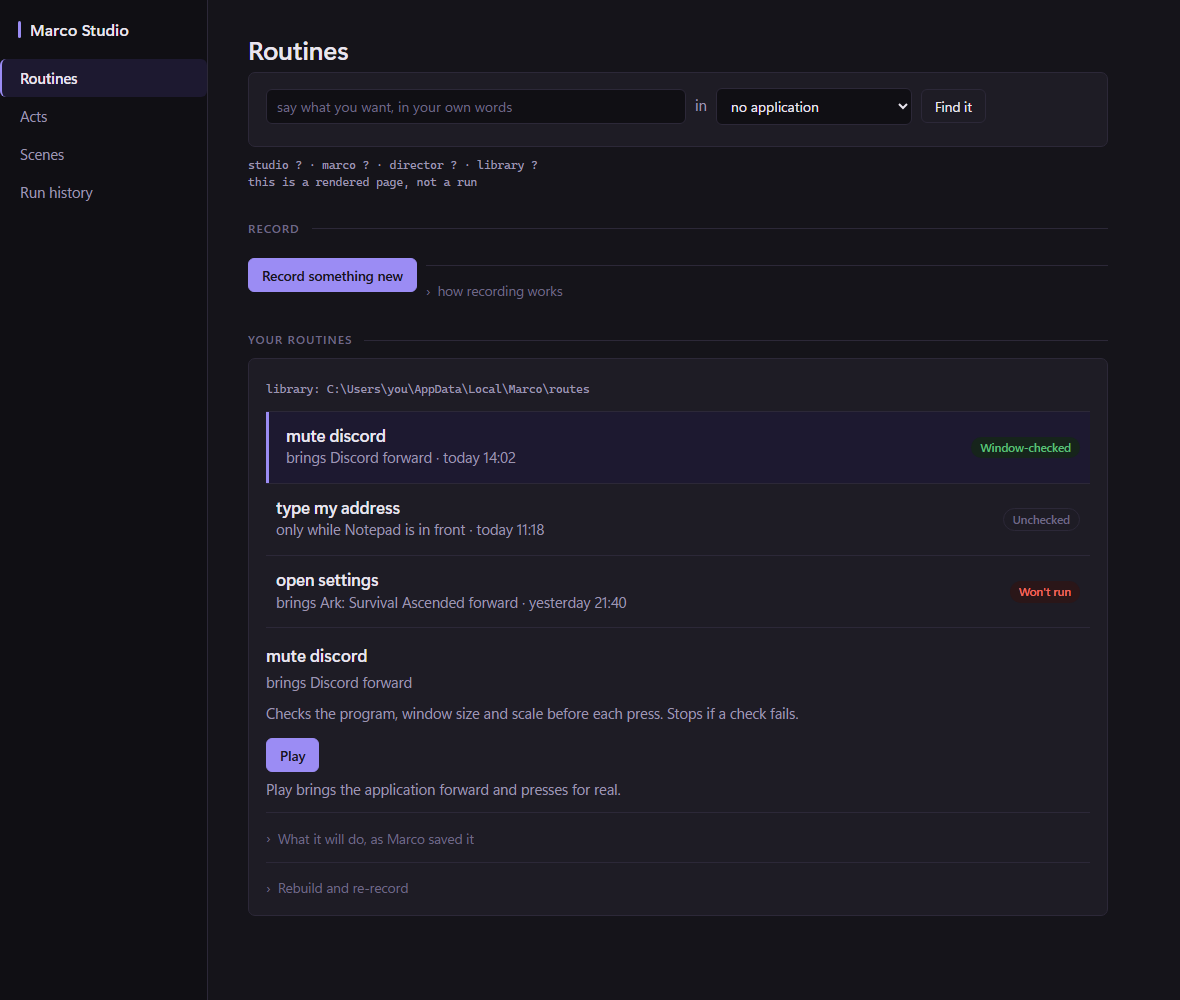
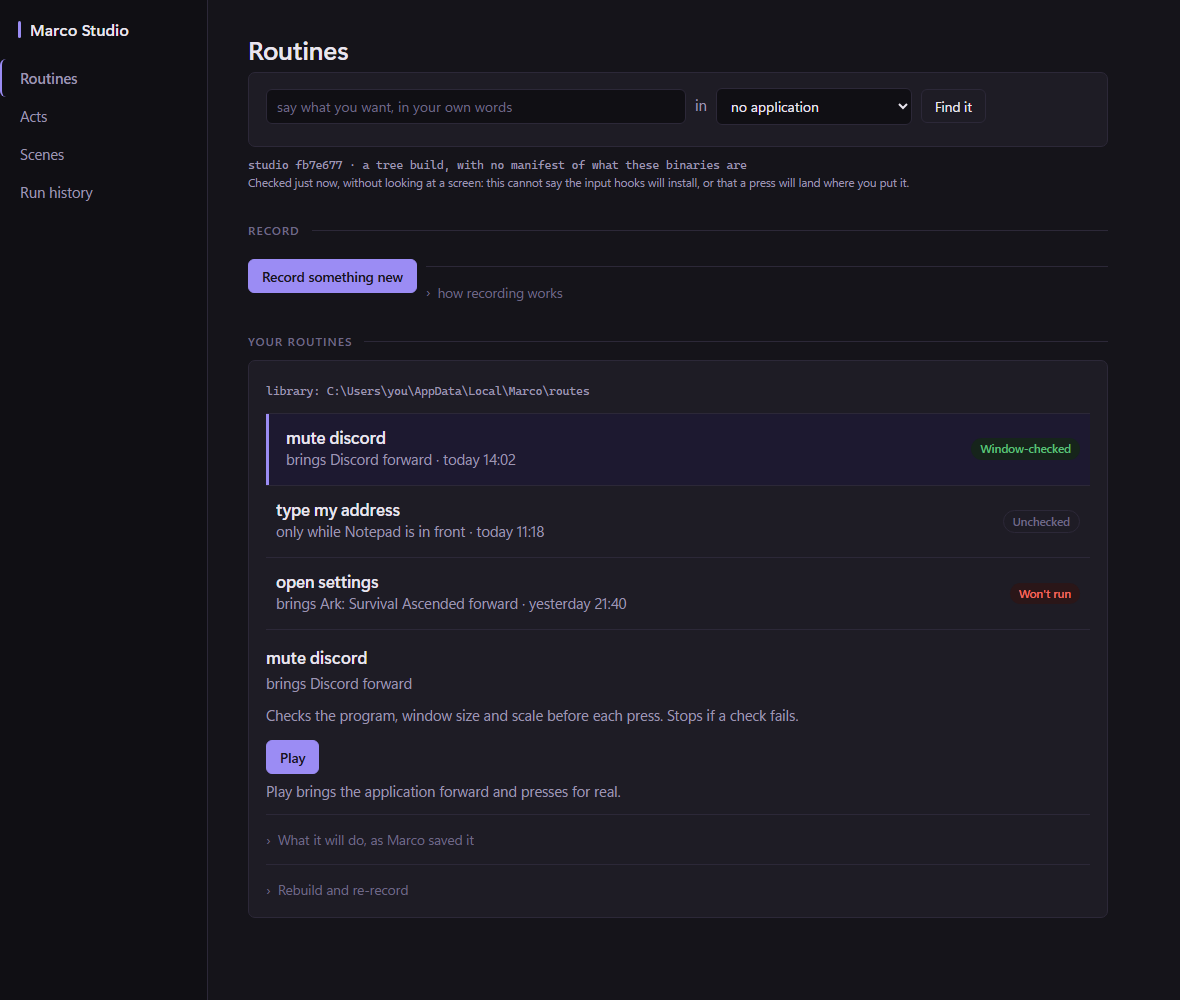
studio: the standing text under every page, and a library named twice
Reported from the window itself: four blocks of text above Record, two of them
saying the same thing. 100 words became 38, and one of the two statements went.

A SECOND LIBRARY IS NAMED ONCE. `Acts.Library` says it over the routine list and
`whatOtherLibraryIsHere` said it again as a red problem above Record -- 55 words
and 45 words for one fact, on the screen of anybody with an older library beside
their tree. The readiness panel is for what is WRONG, and two libraries is not
wrong: nothing is broken, nothing has moved, and the person has to choose. The
banner keeps ADR-252's promise, and it keeps it where the fact means something --
directly above the list somebody is looking at when they wonder where their
routines went. `Acts.Library` also looks beside the working directory as well as
beside the executable, which the deleted one did not, so nothing is lost with it.

THE BANNER ITSELF, 45 WORDS TO 28. What went is two sentences explaining that
routines used to be kept beside whichever directory a binary was started from --
this program's history, not anything about the person's routines. What stays: how
many, where, that nothing has been moved, and the one setting that would use them.

THE CAVEAT, 50 WORDS TO 24, AND OUT OF THE MACHINE FACE. It is on screen under
every page, and a caveat nobody finishes is a caveat that is not made. It still
says the three things that keep the panel from reading as a promise -- nothing
[…]

diff --git a/plugins/studio/frontend/index.html b/plugins/studio/frontend/index.html
@@ -474,7 +474,13 @@
   <div class="card hide" id="readyCard">
     <div id="readyProblems"></div>
   </div>
-  <div class="muted mach" style="font-size:11.5px;margin-bottom:14px" id="readyMachine"></div>
+  <!-- WHICH BUILD THIS IS — a value, so it is mono — AND WHAT THIS CHECK DID NOT
+       ESTABLISH, which is a SENTENCE and is not.
+       One element carried both, in the monospace face, which is the rule the visual pass
+       set broken by the one line that is on screen under every page: mono marks a value,
+       never a sentence. See drawReady. -->
+  <div class="muted mach" style="font-size:11.5px" id="readyMachine"></div>
+  <div class="muted" style="font-size:11.5px;margin-bottom:14px" id="readyLimits"></div>
 
   <!-- RECORD A ROUTINE: the recorder-first path, and the ordinary one.
        Press Record, go and do the thing, press Stop. Nothing is chosen up front and
@@ -2071,16 +2077,25 @@
    // it; and nothing here has looked at a screen, started an application or sent a
    // press. A readiness panel that implied otherwise would be a false claim in the one
    // place somebody trusts before they start.
-   // WHAT THIS INSTALLATION IS MADE OF, when it is one.
+   // WHICH BUILD THIS IS, AND WHAT IT IS MADE OF WHEN IT IS AN INSTALLATION.
    //
-   // `build` is THIS window's revision and a bundle is five binaries; the installation line
-   // is each of their revisions and every file's hash, verified against disk. A tree has no
-   // manifest and says so instead, which is why this is a line of its own rather than a
-   // replacement for the one below. See whatThisInstallationIsMadeOf.
-   text($('readyMachine'), 'studio ' + (r.build || '?') + '  ·  marco ' + (r.marco || '?') +
-     '  ·  director ' + (r.director || '?') + '  ·  library ' + (r.library || '?') +
-     (r.installation ? '\n' + r.installation : '') +
-     '\n' + (r.limits || ''))
+   // `build` is THIS window's revision; the installation line is each binary's revision and
+   // every file's hash, verified against disk, and a tree says so in four words instead.
+   // See whatThisInstallationIsMadeOf.
+   //
+   // AND NOT THE TWO BINARIES OR THE LIBRARY, which this window says where they matter. The
+   // line carried four absolute paths under every page: `marco` and `director` are the
+   // spawn's, and a spawn that would find the wrong one — or one on PATH — is a PROBLEM in
+   // the card above, with what it stops and what to do, rather than a path to compare by
+   // eye. The library is the first line of the routine list, beside the routines it holds.
+   // Three facts, said once each, in the place each one is about.
+   text($('readyMachine'), 'studio ' + (r.build || '?') +
+     (r.installation ? '  ·  ' + r.installation : ''))
+   // AND WHAT THIS CHECK DID NOT ESTABLISH, ALWAYS, AND IN THE READING FACE.
+   //
+   // Always, because a panel that dropped the caveat when everything passed would read as
+   // a promise exactly when somebody believes one. In sans, because it is a sentence.
+   text($('readyLimits'), r.limits || '')
  }
 
  // ── SAY WHAT YOU WANT ────────────────────────────────────────────────────────

diff --git a/plugins/studio/readiness.go b/plugins/studio/readiness.go
@@ -44,7 +44,6 @@ import (
 	"path/filepath"
 	"strings"
 
-	"github.com/chaynes-simpleclouds/marco/internal/marcopaths"
 	"github.com/chaynes-simpleclouds/marco/internal/recorder"
 )
 
@@ -103,10 +102,14 @@ type Problem struct {
 // Spelled out because the honest half of this panel is the half that says what it does not know.
 // Installing the hooks takes the keyboard and the mouse of the whole desktop, so nothing here can
 // have tried it; and nothing here has looked at a screen, started an application or sent a press.
-const readinessLimits = "This is what Marco has checked on this machine just now. It does " +
-	"not say the input hooks will install, that the application you are recording is " +
-	"running, that a press will land where you pressed it, or that what you are " +
-	"automating will do what you want. Nothing here looks at a screen."
+//
+// SHORT, BECAUSE IT IS ON SCREEN ALWAYS. This was 50 words of standing text under a line nobody
+// came to the window to read, and a caveat nobody finishes is a caveat that is not made. What it
+// has to carry is that nothing here looked at a screen, and the two concrete things it therefore
+// cannot promise — the hooks, and where a press lands. `TestAWindowWithNothingWrongStillSaysWhat
+// ItDidNotCheck` holds all three words.
+const readinessLimits = "Checked just now, without looking at a screen: this cannot say the " +
+	"input hooks will install, or that a press will land where you put it."
 
 // Ready is what this window can establish about its ability to record and to play.
 //
@@ -137,9 +140,21 @@ func (a *Acts) Ready() Readiness {
 		Limits:       readinessLimits,
 	}
 	out.Problems = append(out.Problems, madeProblems...)
-	// AND IS THERE A SECOND LIBRARY. See whatOtherLibraryIsHere: the installer used to
-	// put one here, and nothing may move it.
-	out.Problems = append(out.Problems, a.whatOtherLibraryIsHere()...)
+	// AND A SECOND LIBRARY IS NOT REPORTED HERE, because `Library` reports it where it
+	// means something.
+	//
+	// It was reported in BOTH, in two sentences of its own, so a person with an older
+	// library beside their tree read the same fact twice on one screen — 55 words in a red
+	// problem card above Record, and 45 more in the banner over the routine list. The
+	// promise of [[ADR-263-the-alpha-is-the-studio-stack-and-it-says-what-it-is]] is that
+	// the window NAMES the other library and moves nothing; it is kept by the banner, which
+	// sits directly above the list somebody is looking at when they wonder where their
+	// routines went. This panel is for what is WRONG, and two libraries is not wrong.
+	//
+	// `Acts.Library` also looks in both places this did and one more — beside the
+	// executable AND beside the working directory — so nothing is lost with the duplicate.
+	// Held by TestALibraryLeftBesideTheLaunchDirectoryIsNamed and
+	// TestASecondLibraryIsNamedOnceAndNothingIsMoved.
 	// ── WHICH BINARY IS THIS ──
 	//
 	// "unknown" is what `buildid` answers when the toolchain left no VCS stamp, which is
@@ -353,8 +368,7 @@ func whatThisInstallationIsMadeOf() (string, []Problem) {
 	at := filepath.Join(filepath.Dir(exe), "manifest.json")
 	raw, err := os.ReadFile(at)
 	if err != nil {
-		return "not an installed Marco: these binaries were built in a tree, so there " +
-			"is no manifest of what they are", nil
+		return "a tree build, with no manifest of what these binaries are", nil
 	}
 	// AND A BYTE-ORDER MARK IS NOT A BROKEN MANIFEST.
 	//
@@ -425,50 +439,15 @@ func hashOf(path string) (string, error) {
 	return hex.EncodeToString(h.Sum(nil)), nil
 }
 
-// whatOtherLibraryIsHere names a library that is NOT the one in use, when there is one.
-//
-// # What this closes, and why it was already promised
+// A SECOND LIBRARY WAS NAMED HERE, AND IS NAMED BY `Acts.Library` INSTEAD.
 //
 // [[ADR-252-a-library-is-a-place-and-a-routine-is-played-where-it-was-made]] says the window
 // "names any library-shaped directory beside its launch location that holds routines and says
 // what to do about it; nothing is adopted or moved, because choosing between two libraries is
-// the person's". `marcopaths.Elsewhere` was written for exactly that and **nothing ever called
-// it** — a complete mechanism with no caller, which is this repository's own recorded failure
-// mode and the reason every new call site gets a mutation run.
+// the person's". That promise is kept, by the banner over the routine list — which is where it
+// means something, and which looks beside the working directory as well as beside the
+// executable.
 //
-// It matters now because the alpha's installer created the case. Until this slice the launcher
-// set `MARCO_ROUTES` to its own installation directory, so every overlay-era bundle kept its
-// routines under `%LOCALAPPDATA%\Marco\routes`. Installation and data are separate now and the
-// library resolves where it always should — `$MARCO_HOME`, else `%APPDATA%\marco` — which means a
-// person upgrading from a bundled install has routines in a directory nothing reads any more.
-//
-// NOTHING IS MOVED OR MERGED. Two libraries is a thing to be told about, with both paths and the
-// one setting that chooses between them; which one somebody wants is not a question an upgrade
-// may answer on their behalf, and merging them would be an installer editing a library.
-//
-// # Where it looks
-//
-// Beside Studio's own executable, which is `…\Marco\bin` in an installation and `plugins\studio`
-// or the repo root in a tree. `Elsewhere` climbs three levels, which reaches `…\Marco\routes`
-// from `bin\` and the top of a source tree from a binary inside it — the two cases that exist.
-//
-// See [[ADR-263-the-alpha-is-the-studio-stack-and-it-says-what-it-is]].
-func (a *Acts) whatOtherLibraryIsHere() []Problem {
-	exe, err := os.Executable()
-	if err != nil {
-		return nil
-	}
-	found, n := marcopaths.Elsewhere(filepath.Dir(exe))
-	if n == 0 || marcopaths.SameStore(found, a.routesDir) {
-		return nil
-	}
-	return []Problem{{
-		Says: fmt.Sprintf("there is another library beside this Marco with %d "+
-			"routine(s) in it, and it is not the one in use: %s. The one in "+
-			"use is %s", n, found, a.routesDir),
-		Do: "nothing has been moved, and nothing will be. If those are the routines " +
-			"you want, set MARCO_HOME to the folder that contains them and open " +
-			"Marco again; if they are an older install's, leave them or delete " +
-			"the folder yourself",
-	}}
-}
+// What was here looked beside the executable only and said the same fact over again in a red
+// problem card above Record. Two statements of one fact on one screen is the thing this window
+// has now been corrected for twice; see `Acts.Library` and `Routines.Checks`.

diff --git a/plugins/studio/generationacts_test.go b/plugins/studio/generationacts_test.go
@@ -558,8 +558,15 @@ func TestAnInstalledMarcoSaysWhatItIsMadeOf(t *testing.T) {
 		t.Errorf("a build with no manifest beside it is reported as a problem: %+v",
 			problems)
 	}
-	if !strings.Contains(made, "built in a tree") {
-		t.Errorf("a build with no manifest says %q", made)
+	// THE MEANING, NOT THE OLD SENTENCE: it is a tree, and there is no manifest. The
+	// copy pass shortened "not an installed Marco: these binaries were built in a
+	// tree, so there is no manifest of what they are" to four words saying the same
+	// two things, because this line sits under every page of the window.
+	for _, says := range []string{"tree", "manifest"} {
+		if !strings.Contains(made, says) {
+			t.Errorf("a build with no manifest says %q, which does not "+
+				"mention %q", made, says)
+		}
 	}
 
 	// AND AN INSTALLATION SAYS WHAT IT IS. Written beside the test binary, which is
@@ -658,7 +665,7 @@ func TestAnInstalledMarcoSaysWhatItIsMadeOf(t *testing.T) {
 	}
 }
 
-// A SECOND LIBRARY IS NAMED, AND NOTHING IS MOVED.
+// A SECOND LIBRARY IS NAMED ONCE, AND NOTHING IS MOVED.
 //
 // ADR-252 promised this — "the window names any library-shaped directory beside its launch
 // location that holds routines and says what to do about it; nothing is adopted or moved" — and
@@ -670,8 +677,14 @@ func TestAnInstalledMarcoSaysWhatItIsMadeOf(t *testing.T) {
 // routines under `%LOCALAPPDATA%\Marco\routes` — and with installation and data separated, that
 // is a library nothing reads any more.
 //
+// ONCE. It was then named TWICE: a red problem card above Record and a banner over the routine
+// list, 100 words between them for one fact. The readiness panel is for what is WRONG, and two
+// libraries is not wrong — so the banner keeps the promise and the panel says nothing. This
+// tests the case the deleted one tested, a library beside the EXECUTABLE, through the surviving
+// path; `TestALibraryLeftBesideTheLaunchDirectoryIsNamed` is the other place it looks.
+//
 // See [[ADR-263-the-alpha-is-the-studio-stack-and-it-says-what-it-is]].
-func TestASecondLibraryIsNamedAndNothingIsMoved(t *testing.T) {
+func TestASecondLibraryIsNamedOnceAndNothingIsMoved(t *testing.T) {
 	exe, err := os.Executable()
 	if err != nil {
 		t.Skip("this platform cannot say where the test binary is")
@@ -693,25 +706,40 @@ func TestASecondLibraryIsNamedAndNothingIsMoved(t *testing.T) {
 	t.Cleanup(func() { _ = os.Remove(at) })
 
 	// AND THE LIBRARY IN USE IS SOMEWHERE ELSE, which is the whole case.
+	//
+	// Through the ENVIRONMENT rather than by setting the field: `marcopaths.libraryIn`
+	// excludes the library in use by asking `Routes()`, so a test that assigned
+	// `a.routesDir` directly would have the window and the path rule disagreeing about
+	// which library is in use — a disagreement production cannot have, since `newActs`
+	// takes the field from `Routes()`.
+	t.Setenv("MARCO_ROUTES", t.TempDir())
 	a := newActs(t.TempDir())
-	a.routesDir = t.TempDir()
+	// AND NOWHERE ELSE TO FIND ONE. `Library` looks beside the working directory as
+	// well as beside the executable, and the working directory of this test is the
+	// package — three levels under which sits this repository's own `routes`, when the
+	// person running it has one. That would answer instead of the fixture, so the test
+	// would read a different count on the author's machine than in a clean checkout.
+	t.Chdir(t.TempDir())
 
-	problems := a.whatOtherLibraryIsHere()
-	if len(problems) != 1 {
-		t.Fatalf("a second library holding a routine is reported as %d problem(s): "+
-			"%+v", len(problems), problems)
+	l := a.Library()
+	if l.Elsewhere == "" || l.Says == "" {
+		t.Fatalf("a second library holding a routine is not named: %+v", l)
 	}
-	for _, says := range []string{"another library", a.routesDir} {
-		if !strings.Contains(problems[0].Says, says) {
-			t.Errorf("the problem says %q and does not mention %q",
-				problems[0].Says, says)
+	// WHAT IT HAS TO CARRY: that the routines are there, where, that nothing moved,
+	// and the one setting that would use them. A notice naming two libraries without
+	// saying how to choose would leave somebody stuck.
+	for _, says := range []string{"1 routine", "Nothing has been moved", "MARCO_ROUTES"} {
+		if !strings.Contains(l.Says, says) {
+			t.Errorf("it says %q and does not mention %q", l.Says, says)
 		}
 	}
-	// AND IT SAYS NOTHING WILL BE MOVED, and what the one setting is. A notice that
-	// named two libraries without saying how to choose would leave somebody stuck.
-	for _, says := range []string{"nothing has been moved", "MARCO_HOME"} {
-		if !strings.Contains(problems[0].Do, says) {
-			t.Errorf("the advice is %q and does not say %q", problems[0].Do, says)
+	// AND IT IS SAID ONCE. The readiness panel is for what is wrong; two libraries is
+	// not wrong, and it used to say so there as well, in a second sentence of its own.
+	for _, p := range a.Ready().Problems {
+		if strings.Contains(strings.ToLower(p.Says+" "+p.Do), "library") &&
+			strings.Contains(p.Says+p.Do, l.Elsewhere) {
+			t.Errorf("the other library is reported in the readiness panel as "+
+				"well as over the routine list: %+v", p)
 		}
 	}
 	// AND THE OTHER LIBRARY IS STILL THERE, UNTOUCHED, which is the claim that matters.
@@ -720,8 +748,8 @@ func TestASecondLibraryIsNamedAndNothingIsMoved(t *testing.T) {
 	}
 	// AND WHEN THE LIBRARY IN USE IS THAT ONE, THERE IS NOTHING TO SAY. Without this
 	// the notice fires at everybody who has one library in the ordinary place.
-	a.routesDir = filepath.Join(filepath.Dir(exe), "..", "routes")
-	if problems := a.whatOtherLibraryIsHere(); len(problems) != 0 {
-		t.Errorf("the library in use is reported as another library: %+v", problems)
+	t.Setenv("MARCO_ROUTES", filepath.Join(filepath.Dir(exe), "..", "routes"))
+	if l := newActs(t.TempDir()).Library(); l.Elsewhere != "" {
+		t.Errorf("the library in use is reported as another library: %+v", l)
 	}
 }

diff --git a/plugins/studio/readypage_test.go b/plugins/studio/readypage_test.go
@@ -51,13 +51,21 @@ window.go = {main: {
 setTimeout(() => {
   const card = document.getElementById('readyCard')
   const mach = document.getElementById('readyMachine')
+  // THE LIBRARY IS READ OFF THE ROUTINE LIST, not off the machine line.
+  //
+  // It was on both, which is why it moved: the line under every page carried the
+  // library and both spawned binaries as four absolute paths. The claim is unchanged —
+  // the window says which library it reads — and this is where it says it.
+  const lib = document.getElementById('libWhere')
   document.title = 'cardshown=' + (card.classList.contains('hide') ? 0 : 1) +
     ' problems=' + card.querySelectorAll('div.no').length +
     ' blocks=' + (card.textContent.includes('This stops playing a routine') ? 1 : 0) +
     ' todo=' + (card.textContent.includes('build.cmd') ? 1 : 0) +
     ' build=' + (mach.textContent.includes('studio abc1234') ? 1 : 0) +
-    ' library=' + (mach.textContent.includes('C:/x/routes') ? 1 : 0) +
-    ' limits=' + (mach.textContent.includes('does not say the input hooks') ? 1 : 0)
+    ' library=' + (lib.textContent.includes('C:/x/routes') ? 1 : 0) +
+    ' machinepaths=' + (mach.textContent.includes('C:/m/') ? 1 : 0) +
+    ' limits=' + (document.getElementById('readyLimits').textContent.includes('a press will land') ? 1 : 0) +
+    ' limitsmono=' + (document.getElementById('readyLimits').classList.contains('mach') ? 1 : 0)
 }, 4500)
 `
 }
@@ -65,8 +73,8 @@ setTimeout(() => {
 // aCleanMachine is what the panel is handed when there is nothing wrong.
 const aCleanMachine = `{build: 'abc1234', marco: 'C:/m/marco.exe',
   director: 'C:/m/director.exe', library: 'C:/x/routes', problems: [],
-  limits: 'This is what Marco has checked. It does not say the input hooks will ' +
-          'install, that a press will land, or that anything looks at a screen.'}`
+  limits: 'Checked just now, without looking at a screen: this cannot say the ' +
+          'input hooks will install, or that a press will land where you put it.'}`
 
 // aMachineWithAProblem has the quiet one: a sibling missing, with the spawn still succeeding.
 const aMachineWithAProblem = `{build: 'abc1234', marco: 'marco.exe',
@@ -74,8 +82,8 @@ const aMachineWithAProblem = `{build: 'abc1234', marco: 'marco.exe',
   problems: [{says: 'there is no marco.exe beside this window',
               blocks: 'playing a routine',
               do: 'run plugins\\\\studio\\\\build.cmd with this window CLOSED'}],
-  limits: 'This is what Marco has checked. It does not say the input hooks will ' +
-          'install, that a press will land, or that anything looks at a screen.'}`
+  limits: 'Checked just now, without looking at a screen: this cannot say the ' +
+          'input hooks will install, or that a press will land where you put it.'}`
 
 // NOTHING WRONG: NO CARD, AND THE CAVEAT IS STILL THERE.
 //
@@ -90,12 +98,27 @@ func TestACleanMachineShowsNoProblemCardAndStillSaysWhatItDidNotCheck(t *testing
 		t.Errorf("the page drew %d problems from an empty list: %q",
 			n("problems"), title)
 	}
-	if n("build") != 1 || n("library") != 1 {
-		t.Errorf("the machine line does not name this build and its library: %q", title)
+	if n("build") != 1 {
+		t.Errorf("the machine line does not name this build: %q", title)
+	}
+	if n("library") != 1 {
+		t.Errorf("the window does not say which library it reads, anywhere: %q", title)
+	}
+	// AND IT DOES NOT CARRY THE SPAWN'S PATHS. Two absolute paths under every page,
+	// for a comparison nobody can make by eye — and a spawn that would find the wrong
+	// binary is a PROBLEM in the card above, with what it stops and what to do.
+	if n("machinepaths") != 0 {
+		t.Errorf("the machine line is naming the binaries it would spawn: %q", title)
 	}
 	if n("limits") != 1 {
 		t.Errorf("with nothing wrong, the page stopped saying what it had not "+
 			"established: %q", title)
+	}
+	// AND IT IS A SENTENCE, SET AS ONE. Mono marks a value — a revision, a path, a
+	// coordinate — and never a sentence; this one shared an element with the build
+	// line, so the only standing prose in the window was in the machine face.
+	if n("limitsmono") != 0 {
+		t.Errorf("the caveat is set in the monospace face: %q", title)
 	}
 }
 

diff --git a/plugins/studio/routines.go b/plugins/studio/routines.go
@@ -785,11 +785,14 @@ func (a *Acts) Library() Library {
 	}
 	if dir, n := marcopaths.Elsewhere(here, beside); n > 0 {
 		out.Elsewhere = dir
-		out.Says = fmt.Sprintf("%d routine(s) are in %s, which is not the library "+
-			"above. Routines used to be kept beside whichever directory a binary "+
-			"was started from, and that is a library from then — nothing has been "+
-			"lost and nothing has been moved. Copy them into the library, or set "+
-			"MARCO_ROUTES to that directory and start Marco again.", n, dir)
+		// THE COUNT, THE PLACE, AND THE ONE SETTING. This was 45 words, two of
+		// whose sentences explained that routines used to be kept beside whichever
+		// directory a binary was started from — this program's history, and not
+		// anything about the person's routines. What they need is that the
+		// routines exist, where, that nothing has moved, and how to use them.
+		out.Says = fmt.Sprintf("%d routine(s) are in %s, which is not this library. "+
+			"Nothing has been moved. To use those instead, set MARCO_ROUTES to "+
+			"that folder and start Marco again.", n, dir)
 	}
 	return out
 }

diff --git a/docs/decisions/ADR-263-the-alpha-is-the-studio-stack-and-it-says-what-it-is.md b/docs/decisions/ADR-263-the-alpha-is-the-studio-stack-and-it-says-what-it-is.md
@@ -372,10 +372,16 @@ not.
   arranged with a directory where a file has to go, which fails on any platform and needs no
   running process, and it lands after the first component — the only case that could ever have
   produced a mixture.
-- `plugins/studio` `TestASecondLibraryIsNamedAndNothingIsMoved` — a library beside the binary that
-  is not the one in use, named with both paths and the one setting that chooses, the other
+- `plugins/studio` `TestASecondLibraryIsNamedOnceAndNothingIsMoved` — a library beside the binary
+  that is not the one in use, named with both paths and the one setting that chooses, the other
   library's routine still there afterwards, and nothing said when the library in use IS that one.
   `marcopaths.Elsewhere` had no caller at all before this.
+  **ONCE**: it was then named TWICE, by `Acts.Library` over the routine list and again by a
+  readiness problem above Record — 100 words for one fact, on the screen of anybody with an
+  older library beside their tree. The readiness panel is for what is WRONG, and two libraries is
+  not wrong, so the notice lives with the routines it is about and the test fails if the panel
+  says it too. `Acts.Library` looks beside the working directory as well as beside the executable,
+  so nothing is lost with the duplicate.
 - `internal/recorder` `TestAWorkerHeldAcrossATimeoutCannotReachALaterRecording` — a shutdown that
   gives up, a later recording REFUSED with what to do about it, and an abandoned recording's late
   publish dropped even so. The refusal protects a real process; the fence makes the workers
